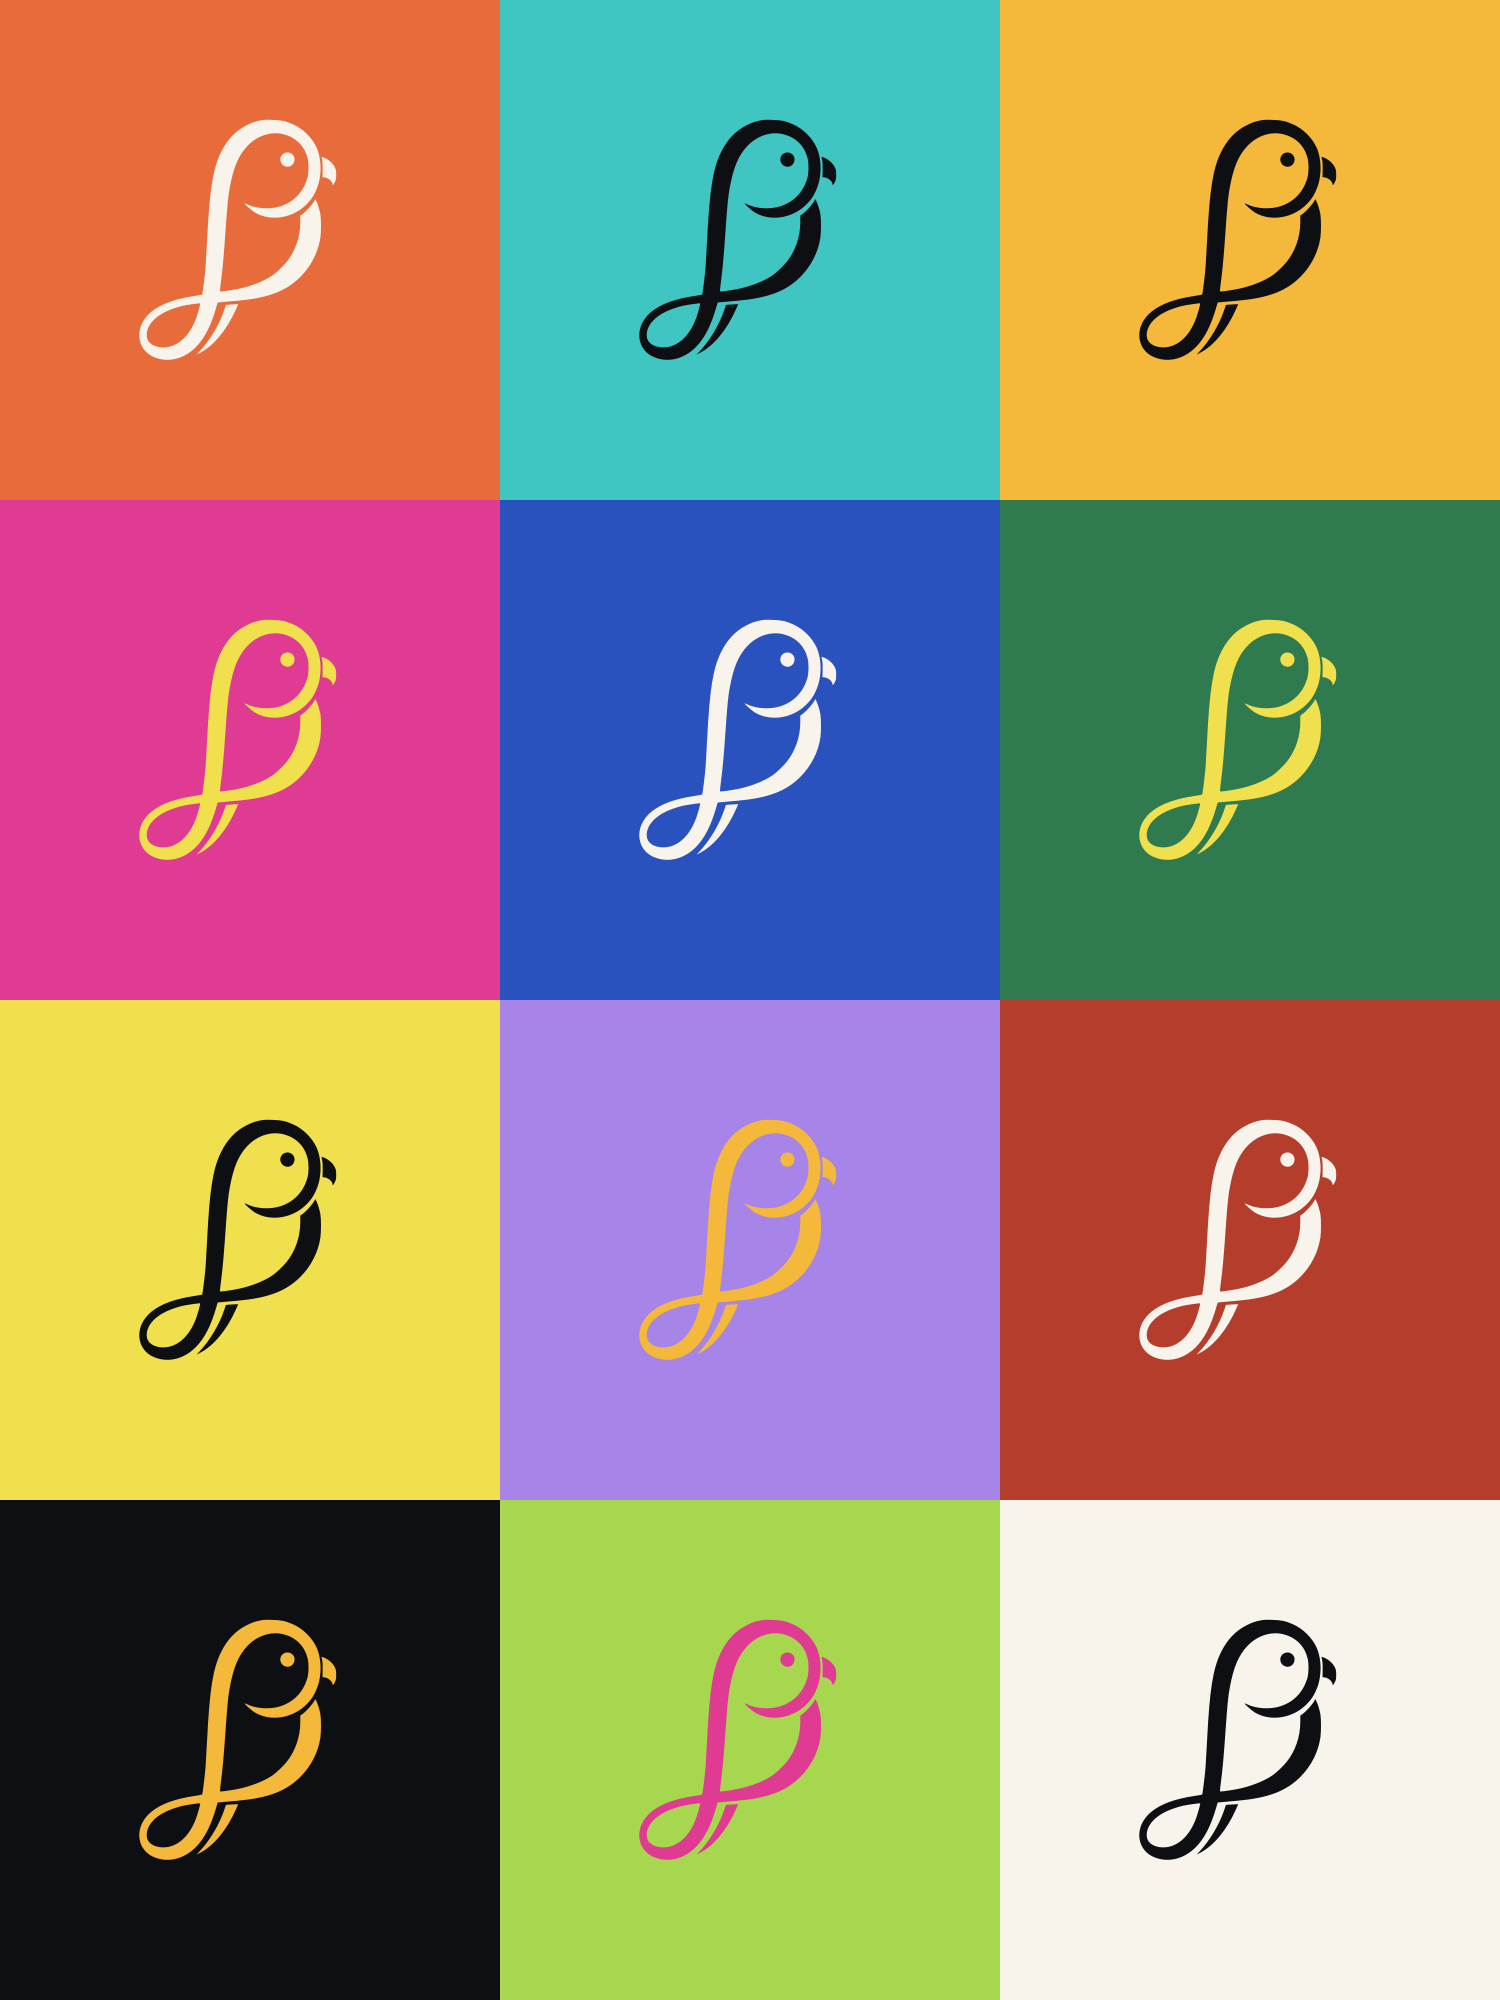
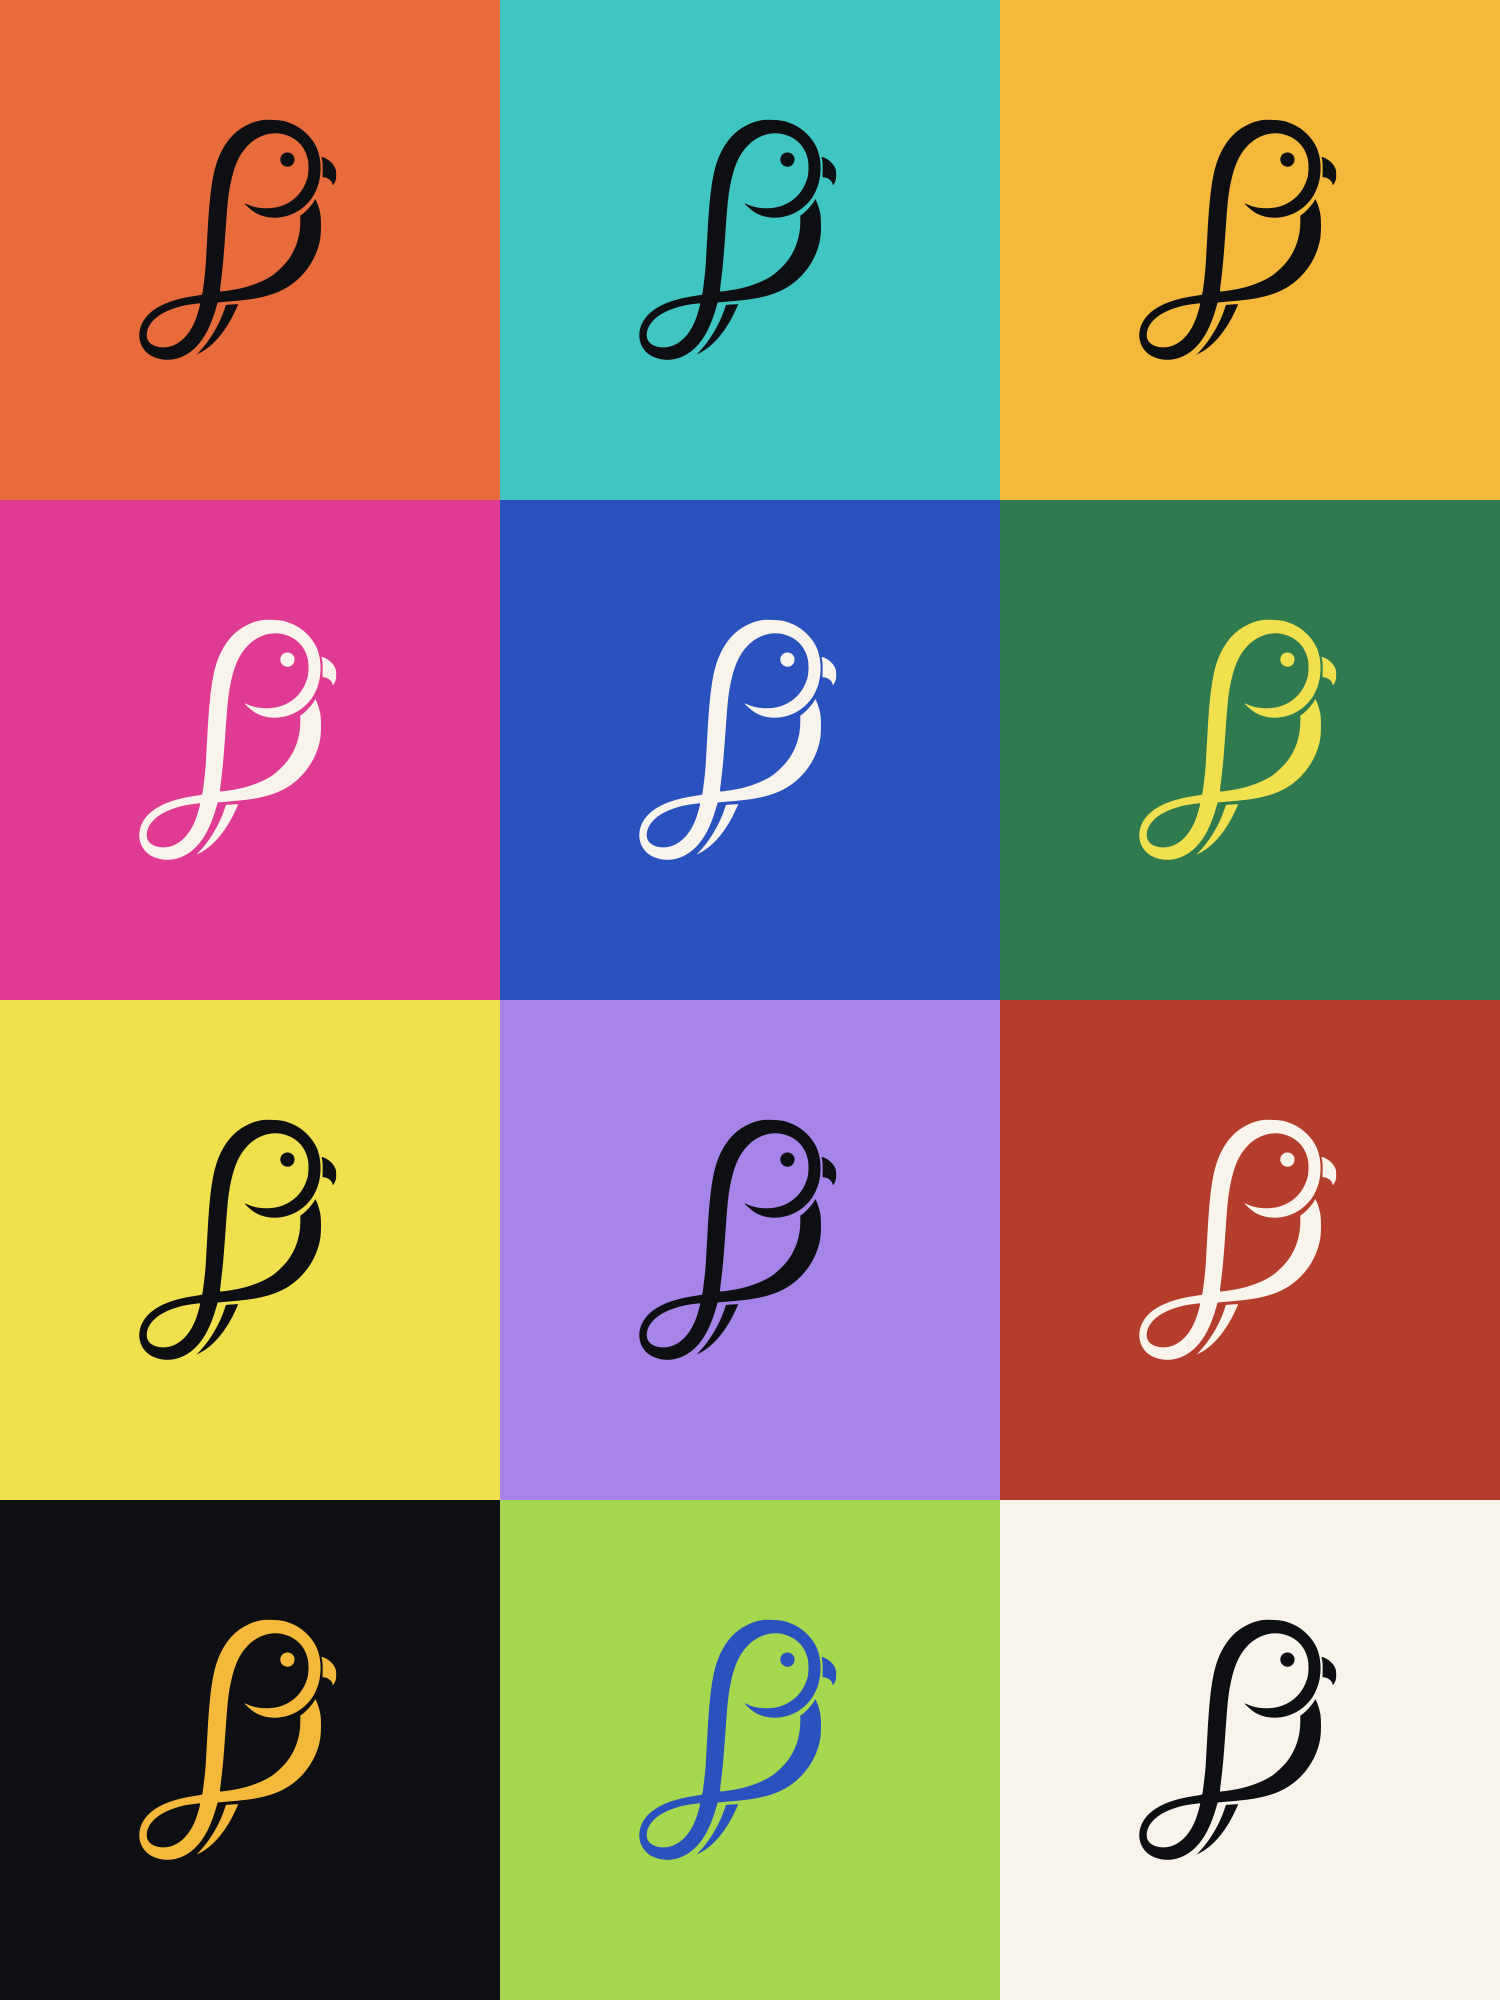
Strengthen brand asset contrast and align design docs
## What Changed
- Updated the Warhol 3x4 composition to use higher-contrast figure and ground color pairs, then regenerated the exported PNG.
- Updated palette guidance so tile-pair recommendations state the 3:1 luminance-contrast floor and match the shipped SVG artwork.
- Removed stale silhouette/vector-sibling wording from brand asset docs and SVG descriptions now that the canonical line mark is the source.
- Aligned design and spec docs around brand source of truth: in-app chrome uses the app design system and bundled PNG mark, while promo/editorial assets live under brand-assets/.

## Root Intent
The PR introduced a brand asset library, but a few palette statements overstated the contrast of the sample Warhol tiles and some docs still described an older silhouette/fill-mark model. This commit makes the contrast guidance true in the actual assets and keeps the design-related docs/specs consistent with the brand asset structure.

## Prompt That Would Produce This Diff
Review PR #206's brand asset library for valid issues, then make the contrast stronger and align all design-related documentation/specs with the current brand asset model. Ensure Warhol tile pairs meet at least 3:1 luminance contrast where claimed, update palette and brand docs to avoid stale silhouette/fill wording, clarify the separation between app UI chrome and editorial brand assets, regenerate exports, validate asset formats, and run the Swift test suite before committing.

## ADRs Applied
- None.
[…]

diff --git a/spec/04-ui-patterns.md b/spec/04-ui-patterns.md
@@ -18,6 +18,21 @@ Design philosophy: **Simple, native, stays out of the way.** No chrome, no clutt
 
 ---
 
+## Brand And Asset Sources
+
+- In-app brand surfaces use the canonical parakeet PNG through
+  `BreathWaveIcon.brandMark` and `BreathWaveLogo`; see
+  `docs/brand-identity.md` for sizing, tinting, and usage rules.
+- App chrome uses `DesignSystem.Colors.accent`, the warm coral-orange brand
+  accent (`#E86B3B` in the light palette). System colors carry the rest of the
+  UI.
+- Promotional and editorial design uses `brand-assets/`: the recolorable
+  `parakeet-line.svg`, Pop palette, composition templates, and generated PNG
+  exports. The Pop palette is for campaigns, posters, social assets, and launch
+  moments; it must not leak into app chrome.
+
+---
+
 ## Main Window (v0.1)
 
 ### Layout

diff --git a/spec/README.md b/spec/README.md
@@ -24,6 +24,19 @@
 | 12 | [Processing Layer](12-processing-layer.md) | Prompt library, multi-summary, v0.5 implementation contract | Active |
 | 13 | [Agent Workflows](13-agent-workflows.md) | Future actions, workflows, agents, voice control, App Intents | Draft |
 
+## Design References
+
+- [UI Patterns](04-ui-patterns.md) is the active product UI contract.
+- [`docs/brand-identity.md`](../docs/brand-identity.md) is the active runtime
+  brand identity reference: canonical parakeet mark, app accent color, sizing,
+  and usage rules.
+- [`brand-assets/README.md`](../brand-assets/README.md) is the active
+  promotional/editorial asset library: recolorable vector mark, Pop palette,
+  composition templates, and regenerated PNG exports.
+- [`docs/design-overhaul.md`](../docs/design-overhaul.md) is historical design
+  context only; do not treat it as the current source of truth when it conflicts
+  with the active brand docs or this spec.
+
 ## Root Decisions (Locked)
 
 These decisions are final. Do not second-guess them.

diff --git a/docs/brand-identity.md b/docs/brand-identity.md
@@ -26,7 +26,7 @@ bird reads as one continuous gesture, like signing your name.
 1. **One continuous stroke** — the bird is a single drawn line; no fills
    except the eye dot
 2. **Scalable** — reads clearly from 18px menu bar to 1024px app icon
-3. **Template-ready** — single-color (white, or accent) silhouette adapts
+3. **Template-ready** — single-color (white, or accent) mark adapts
    to any background via macOS template rendering
 4. **Timeless** — no trendy gradients, no 3D effects, no sharp corners
    beyond the beak
@@ -34,7 +34,7 @@ bird reads as one continuous gesture, like signing your name.
 ## Canonical Asset
 
 The brand mark ships as a high-resolution white-on-near-black PNG. The PNG
-remains the runtime source of truth; vector siblings live in
+remains the runtime source of truth; the vector source lives in
 `brand-assets/marks/` for design work that raster can't do (infinite scaling,
 recoloring, poster-scale composition).
 
@@ -147,7 +147,7 @@ color the brand mark wears when it appears inline.
 For **promotional and editorial work** (posters, social campaigns, launch
 art, anniversary tributes), an extended Pop palette anchored on the same
 coral lives in `brand-assets/palette/`. Twelve curated colors, each chosen
-to read against ink and paper and to pair with coral. The Pop palette is
+to read against ink and paper and to sit beside coral. The Pop palette is
 **only** for moments — it must not leak into chrome. See
 `brand-assets/README.md` for guidance.
 

diff --git a/brand-assets/README.md b/brand-assets/README.md
@@ -16,7 +16,7 @@ betraying it. Two principles govern every artifact in here:
 
 1. **Quiet by default, loud only when chosen.** The brand resting state is
    coral on cream with the line mark — calm, confident, minimal. The Pop
-   palette and silhouette mark are reserved for **moments**: launches,
+   palette and poster compositions are reserved for **moments**: launches,
    anniversaries, social campaigns, posters. Don't dress the chrome in pop.
 2. **Pop with discipline.** Andy Warhol's color is loud, but Warhol's
    *composition* is rigorous — flat color fields, repeated form, rhythm. Our
@@ -84,7 +84,8 @@ are derived presentations of the same data.
 
 **Coral (#E86B3B)** mirrors `DesignSystem.Colors.accent` in-app. Every other
 palette color is chosen to read cleanly against ink, against paper, and beside
-coral. **Aqua** is coral's complement and the strongest Pop partner.
+coral. **Aqua** is coral's complement for side-by-side Pop work; don't overlay
+coral and aqua as a figure/ground pair because their luminances are too close.
 
 Use the palette for:
 - Posters and tile compositions (any color may be ground or figure)

diff --git a/docs/design-overhaul.md b/docs/design-overhaul.md
@@ -1,6 +1,9 @@
 # MacParakeet UI/UX Design Overhaul
 
 > Status: **HISTORICAL** — Design proposal from pre-v0.6. Some elements were implemented; others (trial UI, licensing) are no longer applicable. Kept for design reference.
+> Current brand source of truth: `docs/brand-identity.md` for runtime mark/color
+> rules and `brand-assets/README.md` for promotional/editorial vectors, Pop
+> palette, composition templates, and PNG exports.
 
 ## Locked Decisions
 
@@ -84,7 +87,7 @@ Primary Text:         #1A1A1A  (near-black, high contrast)
 Secondary Text:       #6B6B6B  (descriptions, metadata)
 Tertiary Text:        #9B9B9B  (timestamps, hints — use sparingly)
 
-Accent:               #E86B3A  (warm coral-orange — the "parrot" color)
+Accent:               #E86B3B  (warm coral-orange — the parakeet color)
 Accent Light:         #FFF0EB  (tinted backgrounds, hover states)
 Accent Dark:          #C45428  (pressed states)
 

diff --git a/spec/03-architecture.md b/spec/03-architecture.md
@@ -157,6 +157,9 @@ The UI layer. Thin shell over MacParakeetCore. No business logic lives here.
 
 **Shared Components** (`Views/Components/`):
 - `DesignSystem` — Centralized design tokens (Colors, Typography, Spacing, Layout, Animation)
+- `BreathWaveLogo` / `BreathWaveIcon.brandMark` — Inline parakeet brand mark
+  surfaces backed by the bundled canonical PNG; vector/promo assets live in
+  `brand-assets/` and are not runtime dependencies.
 - `SacredGeometry` — Shared sacred geometry components:
   - `TriangleShape` — Equilateral triangle Shape
   - `SpinnerRingView` — Compact merkaba spinner